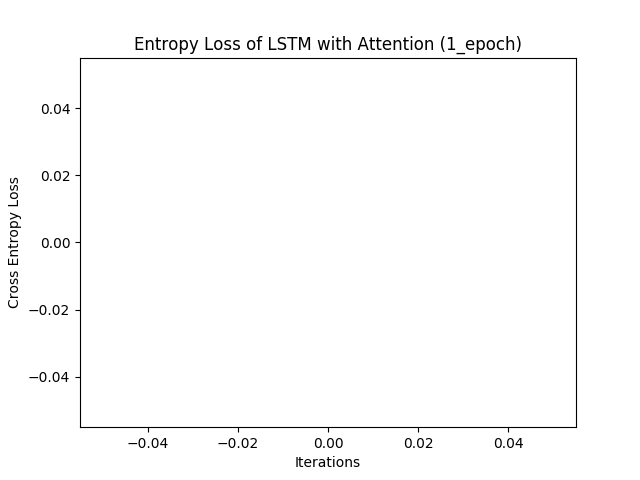
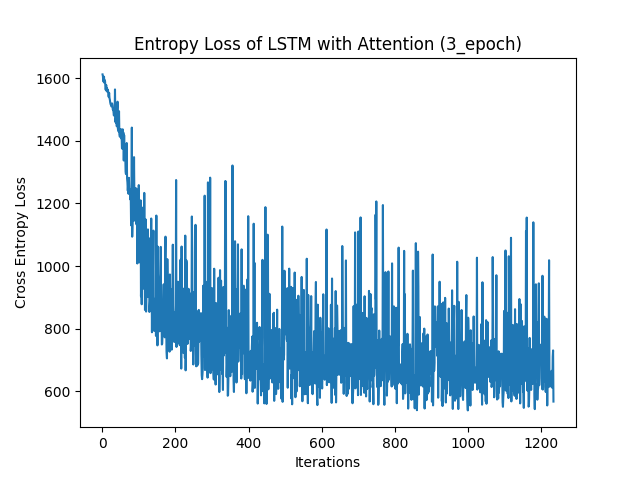
trained lstm-attention with 3 epochs

diff --git a/lstm-attention.py b/lstm-attention.py
@@ -51,7 +51,7 @@ loss_function = nn.CrossEntropyLoss()
 optimizer = optim.Adam(model.parameters(), lr=1e-3)
 loss_array = []
 
-for epoch in xrange(1):
+for epoch in xrange(3):
 	#l = 0
 	# Note: reset loss such that doesn't accumulate after each epoch
 	for sequence in xrange(len(train)):
@@ -68,10 +68,12 @@ for epoch in xrange(1):
 			#loss += loss_function(out.view(1,9),label)
 			loss += loss_function(out.view(1,9), torch.max(label, 1)[1])
 			#l = loss
-		#loss_array.append(loss[0].data.numpy().tolist()[0])
-		print 'Sequence ', (sequence + 1)
+		l = loss[0].data.numpy().tolist()[0]
+		loss_array.append(l)
+		print 'Sequence ', (sequence + 1), l
 		loss.backward()#retain_graph=True)
 		optimizer.step()
+
 np.save('lstm_attention_loss.npy',loss_array)
 print 'Done'
 torch.save(model.state_dict(), "lstm-attention.model")

diff --git a/graph.py b/graph.py
@@ -12,6 +12,6 @@ attention_loss = np.load('lstm_attention_loss.npy')
 plt.plot(xrange(1,len(attention_loss) + 1), attention_loss)
 plt.xlabel('Iterations')
 plt.ylabel('Cross Entropy Loss')
-plt.title('Entropy Loss of LSTM with Attention (1_epoch)')
+plt.title('Entropy Loss of LSTM with Attention (3_epoch)')
 plt.show()
 plt.savefig('result_lstm_attetnion.png')
